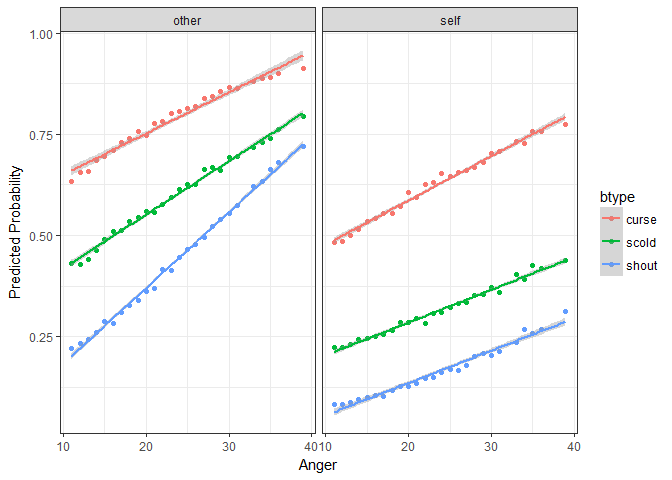
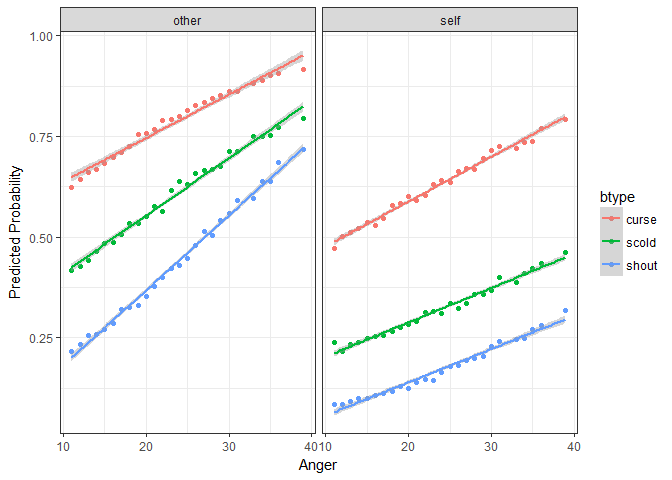
remove sigma from beta simulations

diff --git a/README.md b/README.md
@@ -27,7 +27,7 @@ Recent Updates
 
 ### merTools 0.3.0
 
--   Rebuilt the readme.md to include new information about new features
+-   Change the calculations of the residual variance. Previously residual variance was used to inflate both the variance around the fixed parameters and around the predicted values themselves. This was incorrect and resulted in overly conservative estimates. Now the residual variance is appropriately only used around the final predictions
 -   New option for `predictInterval` that allows the user to return the full interval, the fixed component, the random component, or the fixed and each random component separately for each observation
 -   Fixed a bug with slope+intercept random terms that caused a miscalculation of the random component
 -   Add comparison to `rstanarm` to the Vignette
@@ -110,16 +110,16 @@ With `predictInterval` we obtain predictions that are more like the standard obj
 predictInterval(m1, newdata = InstEval[1:10, ], n.sims = 500, level = 0.9, 
                 stat = 'median')
 #>         fit      upr      lwr
-#> 1  3.132867 5.157970 1.183171
-#> 2  3.180017 5.072290 0.973230
-#> 3  3.439371 5.325379 1.358078
-#> 4  3.131259 5.142101 1.236331
-#> 5  3.426534 5.172656 1.325485
-#> 6  3.204123 5.279035 1.245494
-#> 7  4.206803 6.138637 2.241488
-#> 8  3.886083 5.982433 1.830014
-#> 9  3.681801 5.725326 1.802468
-#> 10 3.353775 5.504170 1.467024
+#> 1  3.102474 5.236406 1.192548
+#> 2  3.295667 5.232050 1.174451
+#> 3  3.447091 5.444162 1.337675
+#> 4  3.051432 4.971109 1.261833
+#> 5  3.326784 5.367482 1.117220
+#> 6  3.189199 5.143497 1.496050
+#> 7  4.180856 6.225887 2.219989
+#> 8  3.928560 5.921551 2.061202
+#> 9  3.809693 5.788328 1.796161
+#> 10 3.430701 5.455156 1.499765
 ```
 
 Note that `predictInterval` is slower because it is computing simulations. It can also return all of the simulated `yhat` values as an attribute to the predict object itself.
@@ -133,47 +133,47 @@ We can also explore the components of the prediction interval by asking `predict
 ``` r
 predictInterval(m1, newdata = InstEval[1:10, ], n.sims = 200, level = 0.9, 
                 stat = 'median', which = "all")
-#>      effect          fit      upr       lwr obs
-#> 1  combined  3.242855583 5.256198  1.166928   1
-#> 2  combined  3.281278745 5.327124  1.047201   2
-#> 3  combined  3.540671486 5.477600  1.193292   3
-#> 4  combined  3.115095384 5.172895  1.243576   4
-#> 5  combined  3.108293629 5.241617  1.425906   5
-#> 6  combined  3.341020492 5.019363  1.460654   6
-#> 7  combined  4.225094994 5.749342  2.142919   7
-#> 8  combined  3.768235942 6.134869  1.904707   8
-#> 9  combined  3.780869784 5.688571  1.724311   9
-#> 10 combined  3.270161364 5.617584  1.612083  10
-#> 11        s  0.339715613 2.370676 -1.755473   1
-#> 12        s  0.008750713 2.069383 -1.812534   2
-#> 13        s  0.431764762 2.167529 -1.699329   3
-#> 14        s  0.295036886 2.434658 -1.756879   4
-#> 15        s -0.132865616 1.855530 -2.066101   5
-#> 16        s -0.191921491 1.823088 -2.017646   6
-#> 17        s  0.419851243 2.384942 -1.455827   7
-#> 18        s  0.420740816 2.182718 -1.405249   8
-#> 19        s  0.183052132 2.204805 -1.734104   9
-#> 20        s  0.378577708 2.215289 -1.422765  10
-#> 21        d -0.371815298 1.668305 -2.222380   1
-#> 22        d -0.256243810 1.791162 -2.021152   2
-#> 23        d  0.009742000 2.166273 -1.891261   3
-#> 24        d -0.363916557 1.463719 -2.132313   4
-#> 25        d  0.076165324 2.162862 -1.973062   5
-#> 26        d -0.057323390 2.092815 -1.694397   6
-#> 27        d  0.787872063 2.697186 -1.218455   7
-#> 28        d  0.303469971 2.269464 -1.591569   8
-#> 29        d  0.225490500 1.793513 -1.902528   9
-#> 30        d -0.361997595 1.462713 -2.385442  10
-#> 31    fixed  3.197006848 5.183858  1.231755   1
-#> 32    fixed  3.182668601 4.967376  1.691922   2
-#> 33    fixed  3.337971033 5.462194  1.328967   3
-#> 34    fixed  3.003346414 5.144884  1.075642   4
-#> 35    fixed  3.284434481 5.086225  1.539723   5
-#> 36    fixed  3.406863154 4.972823  1.415661   6
-#> 37    fixed  3.161917368 5.388678  1.031420   7
-#> 38    fixed  3.303104960 5.137719  1.314559   8
-#> 39    fixed  3.259537665 4.996122  1.426116   9
-#> 40    fixed  3.173104292 5.081483  1.196755  10
+#>      effect         fit      upr       lwr obs
+#> 1  combined  3.21161258 5.319647  1.178516   1
+#> 2  combined  3.16186935 4.924017  1.177790   2
+#> 3  combined  3.36855715 5.164374  1.706623   3
+#> 4  combined  3.18975489 5.067483  1.153070   4
+#> 5  combined  3.28178669 5.012098  1.305008   5
+#> 6  combined  3.33090873 5.134874  1.057878   6
+#> 7  combined  3.91529090 5.885955  1.875913   7
+#> 8  combined  3.80670528 5.859389  1.922122   8
+#> 9  combined  3.96125035 5.769473  1.495732   9
+#> 10 combined  3.46951678 5.165851  1.244634  10
+#> 11        s  0.14367301 2.144390 -1.841787   1
+#> 12        s  0.22193329 2.284173 -1.425292   2
+#> 13        s  0.08944556 2.210515 -2.138321   3
+#> 14        s  0.23117493 1.996168 -1.707685   4
+#> 15        s -0.06645497 1.963605 -1.996932   5
+#> 16        s -0.23284608 2.015788 -2.266432   6
+#> 17        s  0.22652984 2.251893 -1.527731   7
+#> 18        s  0.10208455 2.281827 -1.813819   8
+#> 19        s  0.15891847 2.288568 -1.900618   9
+#> 20        s  0.31121584 2.193857 -1.874738  10
+#> 21        d -0.23767265 1.705684 -1.880467   1
+#> 22        d -0.33547181 1.581980 -2.070901   2
+#> 23        d -0.06639804 2.210045 -1.802223   3
+#> 24        d -0.21123183 1.653691 -2.090981   4
+#> 25        d  0.11235128 2.029360 -1.728519   5
+#> 26        d  0.10877636 1.909676 -1.876703   6
+#> 27        d  0.93390054 2.468244 -1.390469   7
+#> 28        d  0.21049889 2.162436 -1.758649   8
+#> 29        d  0.04285633 2.343796 -2.055756   9
+#> 30        d -0.17446663 1.613849 -2.338567  10
+#> 31    fixed  3.06318626 5.006071  1.429051   1
+#> 32    fixed  3.01012545 5.035036  1.232748   2
+#> 33    fixed  3.33288284 5.070794  1.367818   3
+#> 34    fixed  2.97596186 5.046913  1.246229   4
+#> 35    fixed  3.20840602 5.261907  1.440324   5
+#> 36    fixed  3.28284181 5.266927  1.622155   6
+#> 37    fixed  3.08369143 4.901249  1.510426   7
+#> 38    fixed  3.35815811 5.020734  1.294276   8
+#> 39    fixed  3.20195729 5.604318  1.353049   9
+#> 40    fixed  3.35422041 5.358624  1.339721  10
 ```
 
 This can lead to some useful plotting:
@@ -220,12 +220,12 @@ Plotting
 feSims <- FEsim(m1, n.sims = 100)
 head(feSims)
 #>          term        mean      median         sd
-#> 1 (Intercept)  3.22172541  3.22127980 0.01747097
-#> 2    service1 -0.07056833 -0.07136218 0.01531774
-#> 3   lectage.L -0.18996987 -0.19067454 0.01428177
-#> 4   lectage.Q  0.02393843  0.02261053 0.01173272
-#> 5   lectage.C -0.02527826 -0.02578302 0.01416652
-#> 6   lectage^4 -0.02031094 -0.02174745 0.01122081
+#> 1 (Intercept)  3.22267705  3.22452269 0.02213727
+#> 2    service1 -0.07260187 -0.07423609 0.01313804
+#> 3   lectage.L -0.18501808 -0.18751759 0.01818921
+#> 4   lectage.Q  0.02405490  0.02441686 0.01186001
+#> 5   lectage.C -0.02459851 -0.02408909 0.01346501
+#> 6   lectage^4 -0.02335060 -0.02325181 0.01242481
 ```
 
 And we can also plot this:
@@ -242,12 +242,12 @@ We can also quickly make caterpillar plots for the random-effect terms:
 reSims <- REsim(m1, n.sims = 100)
 head(reSims)
 #>   groupFctr groupID        term        mean      median        sd
-#> 1         s       1 (Intercept)  0.22599246  0.25097098 0.2985394
-#> 2         s       2 (Intercept) -0.06229065 -0.11287415 0.2851206
-#> 3         s       3 (Intercept)  0.26950589  0.25761638 0.2817762
-#> 4         s       4 (Intercept)  0.22514387  0.21662447 0.2866336
-#> 5         s       5 (Intercept)  0.06392735  0.08611845 0.3112211
-#> 6         s       6 (Intercept)  0.09866372  0.08245427 0.2644501
+#> 1         s       1 (Intercept)  0.09277845  0.08215722 0.3187676
+#> 2         s       2 (Intercept) -0.02007281 -0.04535959 0.3204536
+#> 3         s       3 (Intercept)  0.29955776  0.31264600 0.3169339
+#> 4         s       4 (Intercept)  0.23004921  0.22741757 0.2896952
+#> 5         s       5 (Intercept)  0.07953611  0.07506486 0.3063931
+#> 6         s       6 (Intercept)  0.12394938  0.11199365 0.2513063
 ```
 
 ``` r
@@ -303,11 +303,11 @@ impSim <- REimpact(m1, InstEval[7, ], groupFctr = "d", breaks = 5,
 #> Warning: executing %dopar% sequentially: no parallel backend registered
 impSim
 #>   case bin   AvgFit     AvgFitSE nobs
-#> 1    1   1 2.791733 3.178347e-04  193
-#> 2    1   2 3.268277 7.266088e-05  240
-#> 3    1   3 3.565191 5.879801e-05  254
-#> 4    1   4 3.850698 6.746706e-05  265
-#> 5    1   5 4.238028 1.837003e-04  176
+#> 1    1   1 2.766249 2.987675e-04  193
+#> 2    1   2 3.235268 6.437037e-05  240
+#> 3    1   3 3.518711 5.618275e-05  254
+#> 4    1   4 3.810250 6.907703e-05  265
+#> 5    1   5 4.194120 1.761070e-04  176
 ```
 
 The result of `REimpact` shows the change in the `yhat` as the case we supplied to `newdata` is moved from the first to the fifth quintile in terms of the magnitude of the group factor coefficient. We can see here that the individual professor effect has a strong impact on the outcome variable. This can be shown graphically as well:

diff --git a/NEWS.md b/NEWS.md
@@ -4,6 +4,11 @@
 
 ## merTools 0.3.0
 
+- Change the calculations of the residual variance. Previously residual variance 
+was used to inflate both the variance around the fixed parameters and around the 
+predicted values themselves. This was incorrect and resulted in overly conservative 
+estimates. Now the residual variance is appropriately only used around the 
+final predictions
 - Rebuilt the readme.md to include new information about new features
 - New option for `predictInterval` that allows the user to return the full 
 interval, the fixed component, the random component, or the fixed and each random 
